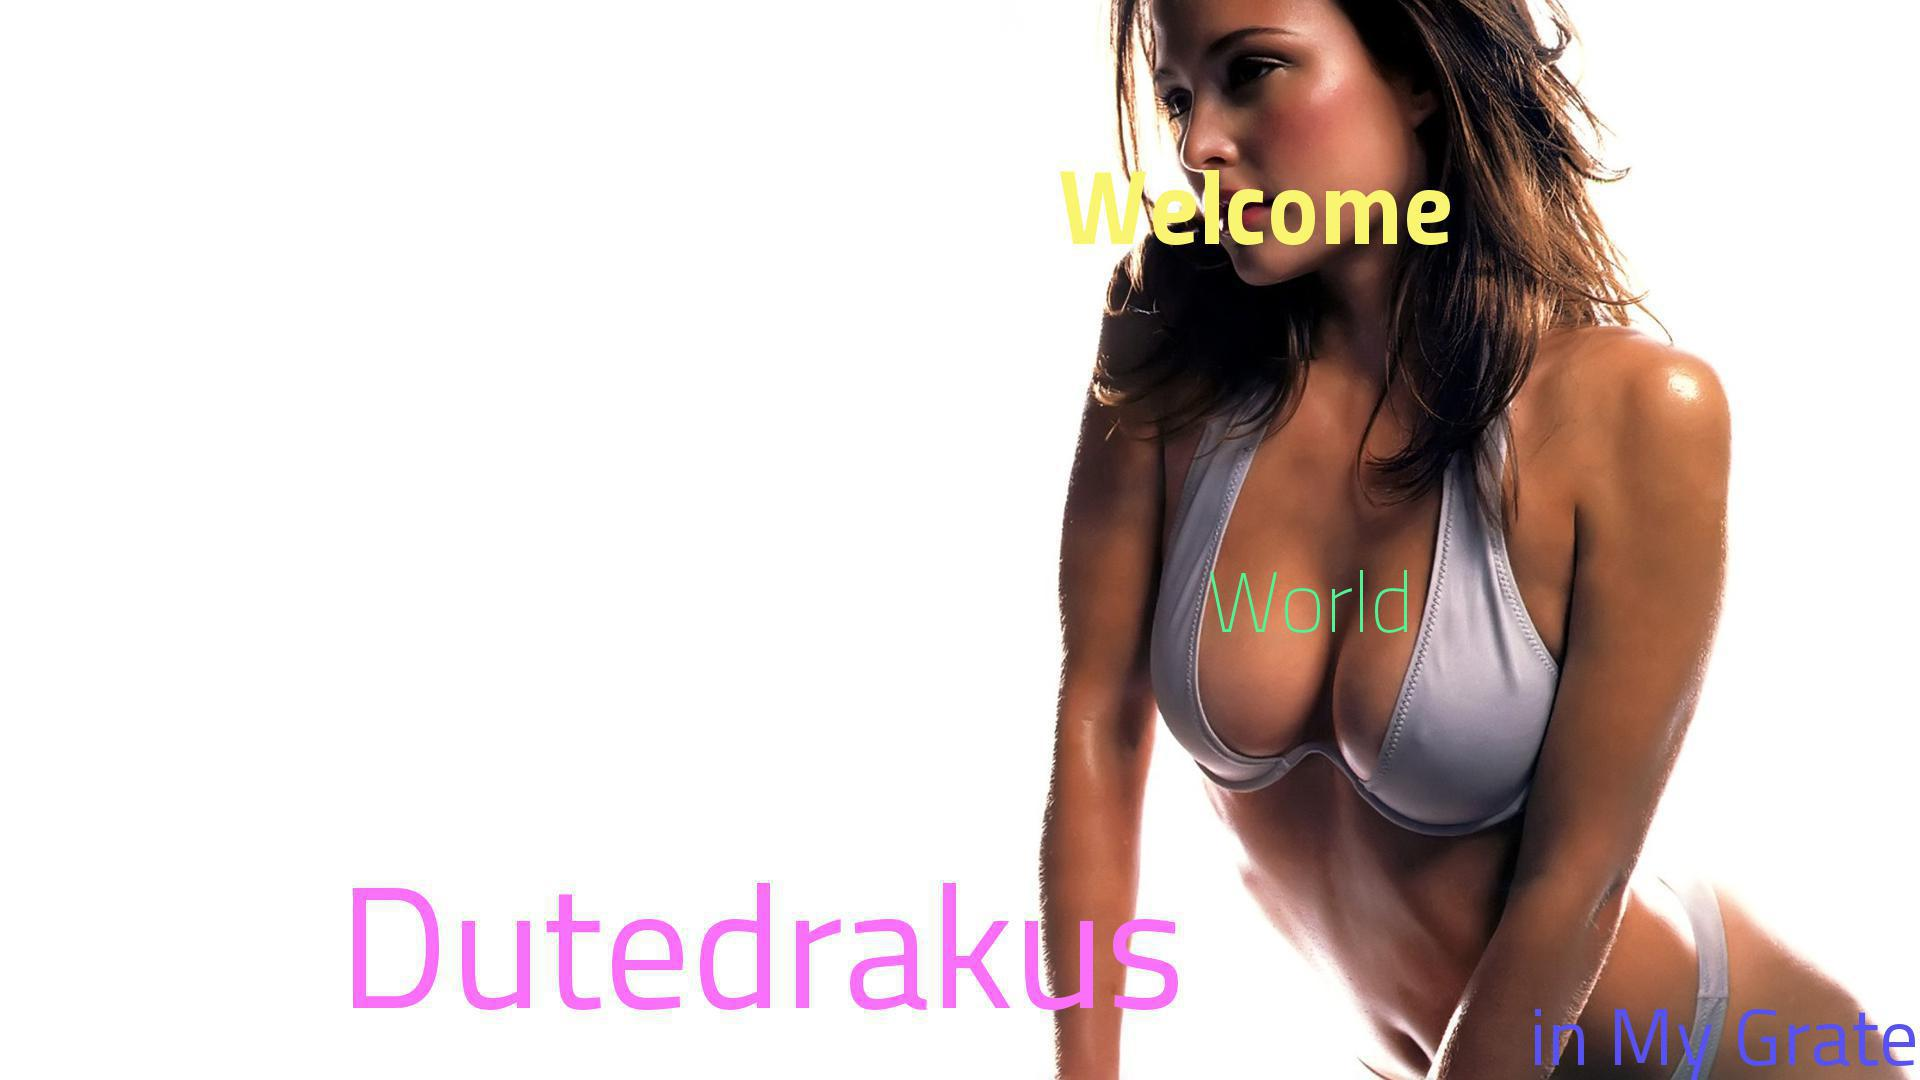
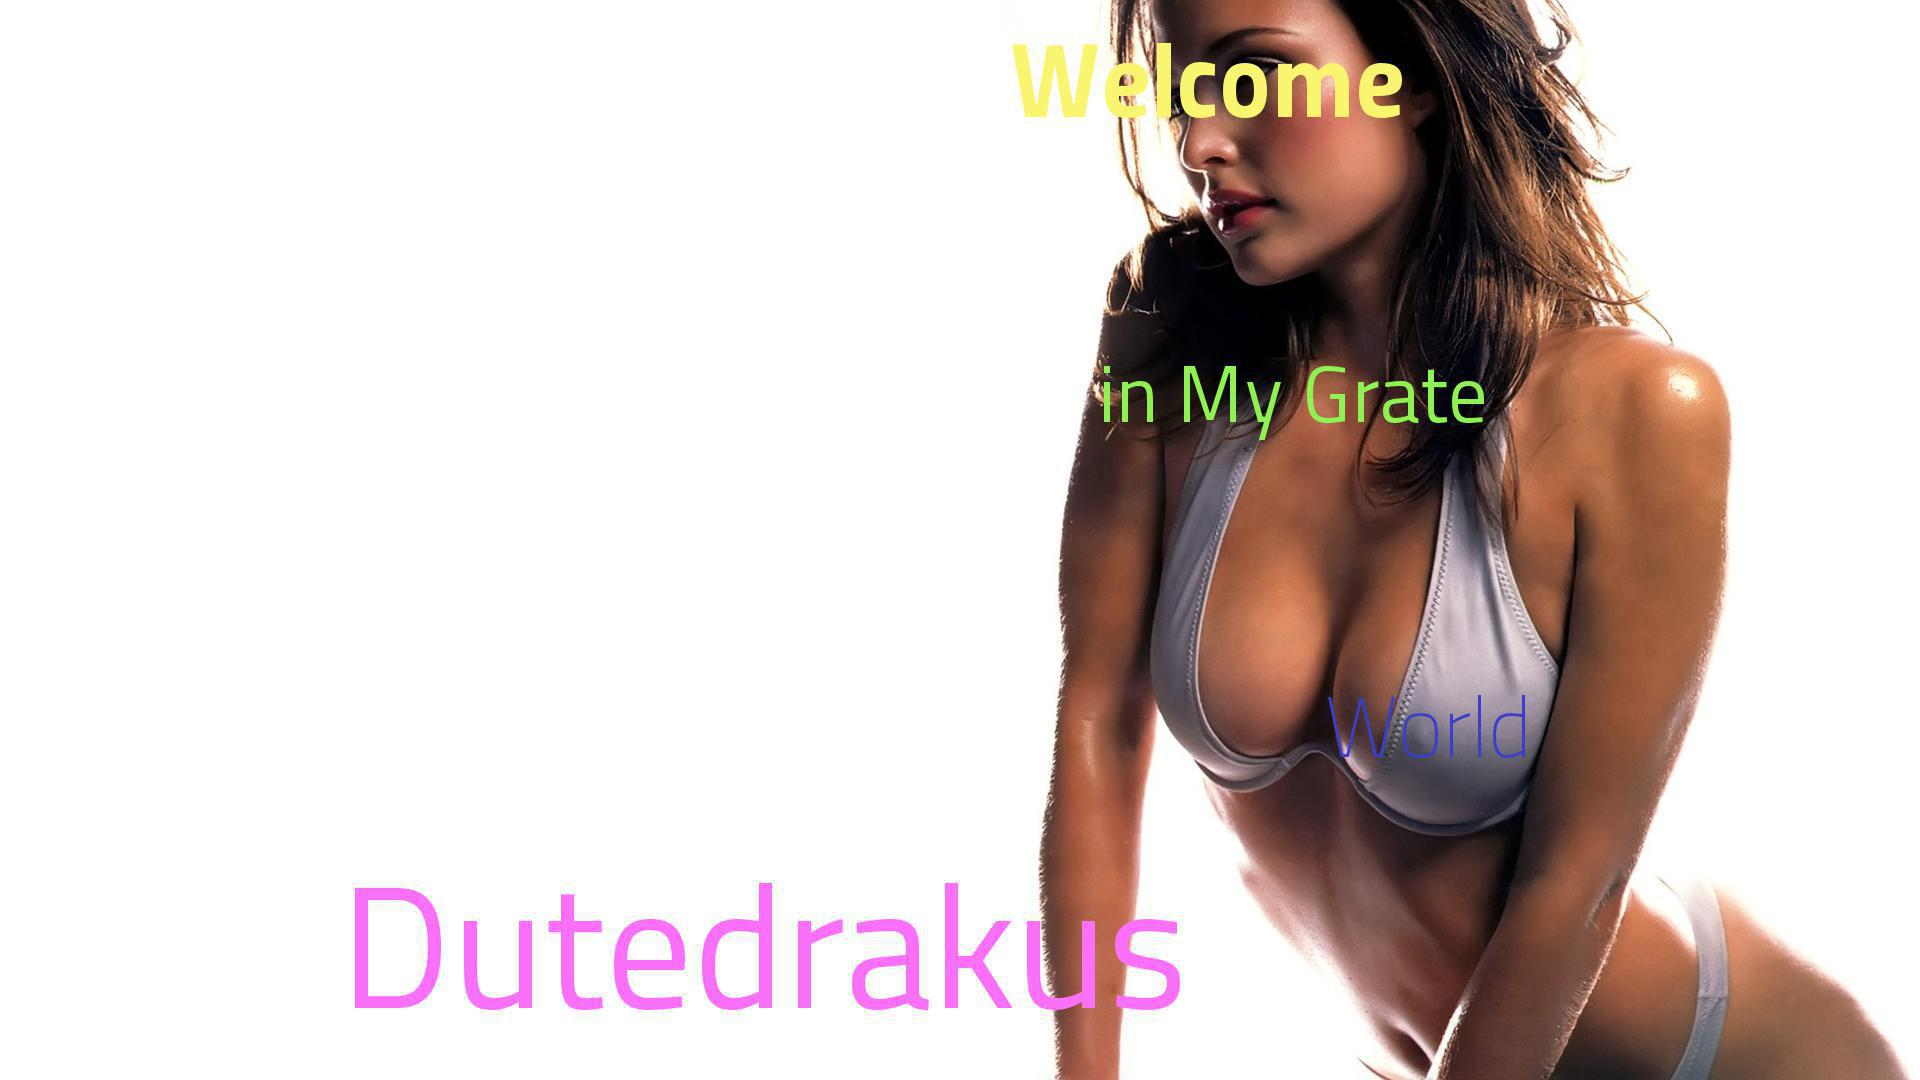
.

diff --git a/interface/js/draggable.js b/interface/js/draggable.js
@@ -208,8 +208,8 @@ $(document).ready(function(){
             $( '#show' ).css( 'display', 'block');
         };
     };
-    //previewCheck( '#preview' );
-    //$( '#show' ).css( 'display', 'none');// Setup what state has to have at the beginning
+    previewCheck( '#preview' );
+    $( '#show' ).css( 'display', 'none');// Setup what state has to have at the beginning
     $( '#preview' ).click(function(){
         if ( $( this ).hasClass( 'active' ) ) {
             $( this ).removeClass( 'active' );

diff --git a/interface/css/tools.css b/interface/css/tools.css
@@ -88,7 +88,7 @@
 .text-slider-v{
     background:none;
     border: 1px solid #999;
-    width:4em;
+    width:3em;
     text-align:center;
     color:white;
 }

diff --git a/interface/index.php b/interface/index.php
@@ -110,7 +110,7 @@ session_start();
                         <!-- Font size -->
                         <div class="tool-sub-ph-v">
                             <div class="tool-sub-label-v">
-                                <p id="label-size" class="label-slider-v">Font-size:</p>
+                                <p id="label-size" class="label-slider-v">Size:</p>
                             </div>
                             <div class="tool-sub-slider-v">
                                 <div id="slider-size" class="slider-slider-v"></div>
@@ -387,11 +387,16 @@ session_start();
                             };
                             passAndShow();
                             $(document).on( 'mousedown', 'body', function(){
-
+                                //alert(imgsrc);
+                                //var imgsrc = $( '#preview-img' ).attr( 'src' );
+                                //$( '#preview-img' ).remove();
+                                
                             });
                             $(document).on( 'mouseup', 'body', function(){
                                 passAndShow();
-                                $("#preview-img").attr("src", $("#preview-img").attr("src")+"?timestamp=" + new Date().getTime());
+                                $( '#preview-img' ).attr( 'src', $( '#preview-img' ).attr( 'src' )+"?timestamp=" + new Date().getTime());
+                                //$( '#show' ).html( '<img id="#preview-img" style="width:'+$( '#image' ).width()+';" src="data/picture/<?php echo $_COOKIE['PHPSESSID']; ?>-preview.jpg?asd='+ new Date().getTime()+'" />');
+                                //alert(imgsrc);
                                 //console.log( $("#preview-img").attr("src") );
                                 //console.log( 'mousedown' );
                                 //location.reload();
